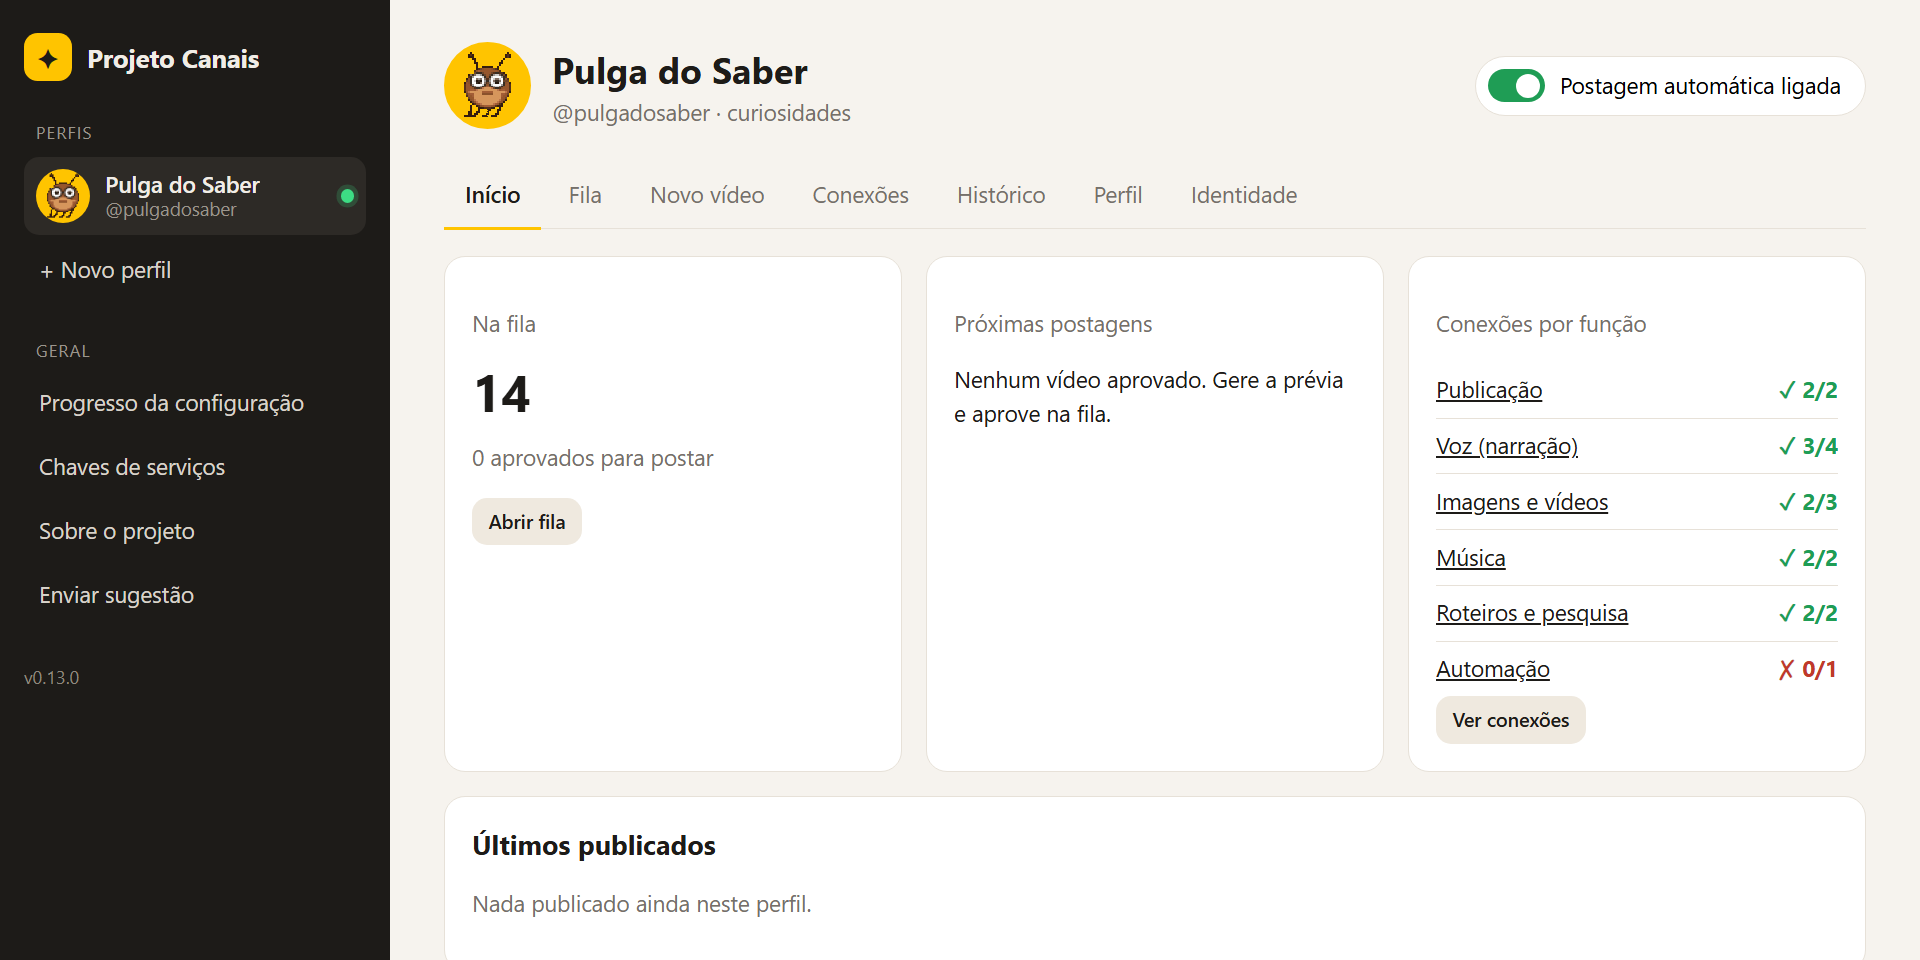
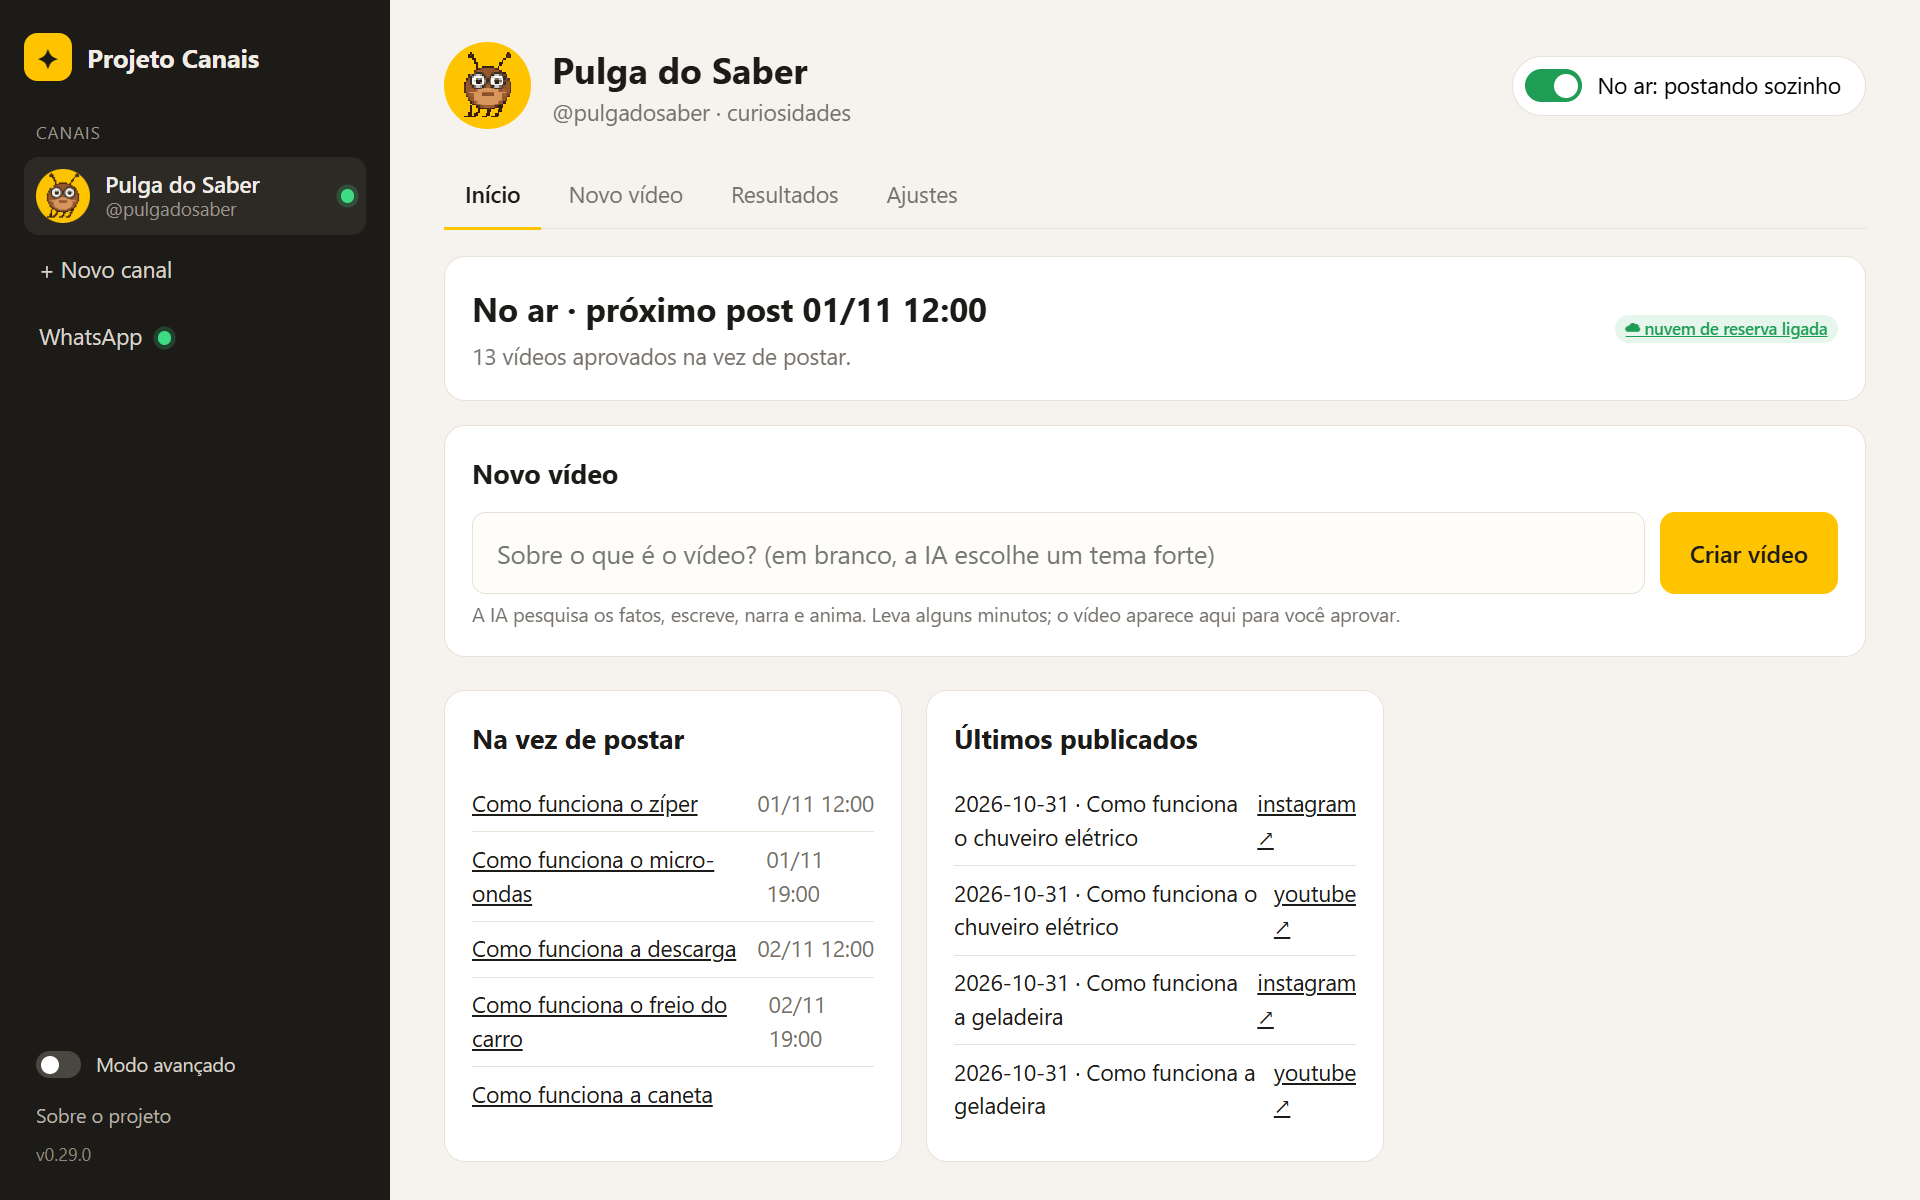
README com as novidades da v0.29 e comandos do WhatsApp sem travar em "conectando" (v0.29.1)
- README: seção Novidades com prints da abertura, do Novo canal, do O que funcionou (dados de exemplo) e do
  WhatsApp; print do Estúdio refeito; versão, apresentação e estrutura atualizadas.
- WhatsApp: o log do cloudflared é lido numa linha à parte com prazo; antes de registrar o webhook, o túnel é
  testado pela internet (o DNS do endereço novo demora e a Meta respondia "Failed to resolve host"); qualquer
  falha aparece na tela em vez de deixar "conectando" para sempre.

diff --git a/darkops/whatsapp.py b/darkops/whatsapp.py
@@ -668,27 +668,49 @@ def _ligar() -> None:
                             stdout=subprocess.DEVNULL, stderr=subprocess.PIPE, text=True, errors="replace",
                             creationflags=getattr(subprocess, "CREATE_NO_WINDOW", 0))
     _gravar_estado(tunel_pid=proc.pid)
-    endereco = None
-    inicio = time.time()
-    for linha in proc.stderr:
-        achado = re.search(r"https://[a-z0-9-]+\.trycloudflare\.com", linha)
-        if achado:
-            endereco = achado.group(0)
+    # o log do túnel é lido numa linha à parte: se o cloudflared ficar mudo, o prazo de 60 s ainda vale
+    achados: list[str] = []
+
+    def ler_log():
+        for linha in proc.stderr:
+            achado = re.search(r"https://[a-z0-9-]+\.trycloudflare\.com", linha)
+            if achado and not achados:
+                achados.append(achado.group(0))
+    threading.Thread(target=ler_log, daemon=True).start()
+    for _ in range(120):
+        if achados or proc.poll() is not None:
             break
-        if time.time() - inicio > 60:
-            break
-    if not endereco:
-        _gravar_estado(tunel_erro="o túnel da Cloudflare não respondeu; tente de novo em Ajustes")
+        time.sleep(0.5)
+    if not achados:
+        proc.kill()
+        _gravar_estado(tunel_erro="o túnel da Cloudflare não respondeu; clique em Religar os comandos")
         return
-    threading.Thread(target=lambda: [None for _ in proc.stderr], daemon=True).start()  # esvazia o log do túnel
-    time.sleep(4)  # o endereço novo leva uns segundos para valer na internet
+    endereco = achados[0]
     try:
+        _esperar_tunel(endereco)  # o endereço novo leva de segundos a 1 min para valer na internet
         registrar_webhook(endereco + CAMINHO_WEBHOOK)
         _gravar_estado(tunel=endereco, tunel_ok=True, tunel_erro="")
         print("WhatsApp: comandos ligados")
-    except (ErroMeta, OSError) as erro:
+    except Exception as erro:  # qualquer falha aparece na tela, em vez de deixar "conectando" para sempre
         _gravar_estado(tunel_erro=ocultar(str(erro))[:300])
         print(ocultar(f"WhatsApp: não consegui registrar o webhook: {erro}"))
+
+
+def _esperar_tunel(endereco: str, prazo_s: int = 90) -> None:
+    """Espera o túnel responder de fora (a mesma verificação que a Meta faz) antes de registrar o webhook."""
+    teste = endereco + CAMINHO_WEBHOOK + "?" + urllib.parse.urlencode(
+        {"hub.mode": "subscribe", "hub.verify_token": verificador(), "hub.challenge": "pronto"})
+    fim = time.time() + prazo_s
+    while time.time() < fim:
+        try:
+            with urllib.request.urlopen(teste, timeout=10) as r:
+                if r.read() == b"pronto":
+                    time.sleep(5)  # folga para o DNS do endereço novo chegar também aos servidores da Meta
+                    return
+        except OSError:
+            pass
+        time.sleep(3)
+    raise OSError("o endereço do túnel não ficou acessível pela internet em 90 s")
 
 
 def _token_app() -> str:

diff --git a/darkops/__init__.py b/darkops/__init__.py
@@ -1,2 +1,2 @@
 """Projeto Canais: pesquisa, produção e postagem de canais dark. Autor: Vinicius Freitas."""
-__version__ = "0.29.0"
+__version__ = "0.29.1"

diff --git a/README.md b/README.md
@@ -1,22 +1,31 @@
 # Projeto Canais (canais-dark)
 
-[![Versão](https://img.shields.io/badge/vers%C3%A3o-0.26.1%20beta-f5c518)](darkops/__init__.py)
+[![Versão](https://img.shields.io/badge/vers%C3%A3o-0.29.1%20beta-f5c518)](darkops/__init__.py)
 [![Licença](https://img.shields.io/badge/licen%C3%A7a-PolyForm%20Noncommercial-blue)](LICENSE)
 [![Site](https://img.shields.io/badge/site-projeto--canais-222)](https://vincfreitas.github.io/projeto-canais/)
 [![YouTube](https://img.shields.io/badge/YouTube-@PulgadoSaber-red?logo=youtube)](https://www.youtube.com/@pulgadosaber)
 [![Instagram](https://img.shields.io/badge/Instagram-@pulgadosaber-E4405F?logo=instagram&logoColor=white)](https://www.instagram.com/pulgadosaber)
 
-> **Projeto Canais v0.26.1 (beta)** · criado por Vinicius Freitas · licença não comercial ([LICENSE](LICENSE))
+> **Projeto Canais v0.29.1 (beta)** · criado por Vinicius Freitas · licença não comercial ([LICENSE](LICENSE))
 
 Fábrica de canais "dark" (sem rosto) que **roda sozinha**: pesquisa temas que já dão certo, escreve roteiros com fatos checados, gera Shorts e Reels com narração, legendas, clipes reais, animações sincronizadas com a fala, efeitos sonoros e música livre, e **posta no YouTube e no Instagram nos horários marcados**, só o que você aprovou.
 
 **Veja funcionando:** o canal de exemplo é o **Pulga do Saber**, curiosidades rápidas narradas por uma pulga em pixel art, no [YouTube](https://www.youtube.com/@pulgadosaber) e no [Instagram](https://www.instagram.com/pulgadosaber).
 
-Tudo se controla pelo **Estúdio**, um painel no navegador com perfis (um por canal), conexões explicadas por função, fila com prévia e aprovação, editor e histórico.
+Tudo se controla pelo **Estúdio**, um painel no navegador com perfis (um por canal), conexões explicadas por função, fila com prévia e aprovação, editor e histórico. Ele **aprende sozinho**: a cada 15 vídeos no ar, descobre o que funcionou e ajusta os próximos. E avisa (e obedece) pelo **WhatsApp**. Posta mesmo com o PC desligado, pela **nuvem** (GitHub Actions + n8n).
 
 ![Estúdio do Projeto Canais: início do perfil Pulga do Saber, com fila, próximas postagens e conexões por função](docs/img/estudio.png)
 
-**Neste README:** [Começar em 3 passos](#começar-em-3-passos-com-o-claude-code) · [Sem o Claude](#sem-o-claude-manual) · [Como funciona](#como-funciona) · [Conectores](#conectores) · [Estrutura](#estrutura) · [Regras](#regras-que-mantêm-o-canal-vivo) · [Testando?](#testando-sua-opinião-ajuda) · [Licença](#licença-e-autoria)
+**Neste README:** [Novidades](#novidades-v029) · [Começar em 3 passos](#começar-em-3-passos-com-o-claude-code) · [Sem o Claude](#sem-o-claude-manual) · [Como funciona](#como-funciona) · [Conectores](#conectores) · [Estrutura](#estrutura) · [Regras](#regras-que-mantêm-o-canal-vivo) · [Testando?](#testando-sua-opinião-ajuda) · [Licença](#licença-e-autoria)
+
+## Novidades (v0.29)
+
+| | |
+|---|---|
+| <img src="docs/img/abertura.png" width="420" alt="Abertura animada do Projeto Canais: o logo, o nome e a conferência do Estúdio, do n8n, da nuvem e do WhatsApp"> | **Abertura animada.** O executável abre direto numa tela que confere o Estúdio, o n8n, a nuvem e o WhatsApp, e o logo "voa" para a lateral. Sem janelas de prompt piscando. |
+| <img src="docs/img/novo-canal.png" width="420" alt="Novo canal em 5 passos: assunto em cartões, nome com sugestões da IA, formato, plataformas e revisão, com prévia ao vivo do canal"> | **Novo canal em 5 passos.** Assunto em cartões, nome com sugestões da IA, formato e duração, plataformas e revisão, com uma prévia do canal mudando ao vivo. Ao criar, o canal já começa a produzir os **15 primeiros vídeos**. |
+| <img src="docs/img/o-que-funcionou.png" width="420" alt="Tela O que funcionou: os vídeos que funcionaram e os que não funcionaram, com nota, e as mudanças aplicadas sozinhas com o botão Desfazer (dados de exemplo)"> | **O que funcionou** (Resultados). A cada 15 vídeos no ar há 2 dias, o canal ranqueia os vídeos (visualizações, retenção e engajamento), separa o que funcionou do que não funcionou e **muda sozinho os próximos vídeos usando só o que funcionou**, com **Desfazer**. *Print com dados de exemplo.* |
+| <img src="docs/img/whatsapp.png" width="420" alt="Tela do WhatsApp: conectado uma vez para todos os canais, com o estado da conversa e os canais que recebem avisos"> | **WhatsApp** (API oficial da Meta). Uma vez para todos os canais: avisa quando um vídeo vai ao ar, quando algo falha e quando a fila está acabando, manda cada vídeo novo com **Aprovar/Recusar** e obedece comandos como `status`, `criar 3` e `pausar todos`. |
 
 ## Começar em 3 passos (com o Claude Code)
 
@@ -55,7 +64,7 @@ O passo a passo completo de cada conta está em [.claude/skills/configurar/SKILL
 | Dar personalidade ao canal | Estúdio > Perfil > **Personalidade do canal**: quem narra, tom, público, como os vídeos começam, linguagem e padrão de título e capa; o /escrever-roteiro e as levas seguem isso |
 | Revisar antes de gerar | A tela do vídeo sem prévia mostra a **Revisão antes de gerar**: canal, visual, voz, cenas, duração, fontes, tempo para gerar e as notas do roteiro sobre o que ele escolheu |
 | Escrever o roteiro com fontes, ganchos e animações | `/escrever-roteiro <ideia>`, banco de ganchos em [docs/ganchos.md](docs/ganchos.md) |
-| Abrir sem PowerShell | Atalho **Projeto Canais** na Área de Trabalho e/ou no Menu Iniciar (escolhido na instalação ou em Estúdio > **Configurações**); `python -m darkops abrir` faz o mesmo. Ao abrir, o Estúdio também liga o n8n escondido (leva de 1 a 3 min), e ele segue ligado para postar às 12h e às 19h |
+| Abrir sem PowerShell | Atalho **Projeto Canais** na Área de Trabalho e/ou no Menu Iniciar (escolhido na instalação ou em Estúdio > **Configurações**); `python -m darkops abrir` faz o mesmo. Ao abrir, o Estúdio também liga o n8n escondido (leva de 1 a 3 min), e ele segue ligado para postar às 12h e às 19h. Abre numa **abertura animada** que confere o que já está de pé, sem janelas de prompt piscando |
 | Manter o projeto atualizado | Estúdio > Configurações: atualização automática (busca no GitHub, espera as tarefas, fecha e abre sozinho e mostra a versão nova e o que mudou), **Procurar atualização** e **Atualizar dependências** (pacotes Python e yt-dlp, n8n, Claude Code). Pela CLI: `python -m darkops atualizar` e `python -m darkops atualizar-dependencias --aplicar` |
 | Ver os números | Estúdio > **Estatísticas**: inscritos ou seguidores, visualizações, curtidas, comentários, compartilhamentos, salvamentos, minutos assistidos, duração média e retenção de cada vídeo, no YouTube e no Instagram (APIs oficiais, só leitura; `python -m darkops estatisticas`). Retenção e minutos do YouTube pedem a permissão extra "Liberar retenção" |
 | Melhorar com base nos números | **Analisar com a IA**: o Claude lê as estatísticas e sugere mudanças com o motivo; cada uma tem Aprovar ou Recusar. Mudança de configuração só é aplicada se aprovada; orientação de conteúdo aprovada vira diretriz do canal, seguida pelos roteiros |
@@ -92,7 +101,8 @@ O passo a passo completo de cada conta está em [.claude/skills/configurar/SKILL
 - `darkops/`: o código (CLI `python -m darkops`, com `--perfil <id>` em qualquer comando)
 - `darkops/estudio/`: o painel (Flask, só em 127.0.0.1)
 - `perfis/<id>/`: um canal por perfil (configuração, fila, publicados, controle; credenciais ficam fora do Git). Ao criar o perfil no Estúdio, escolha as plataformas (YouTube, Instagram, Facebook, TikTok, Kwai ou outra), o formato (Shorts/Reels vertical ou vídeo convencional 16:9), a duração de cada vídeo e um link de vídeo de exemplo. Só YouTube e Instagram postam sozinhos.
-- `n8n/`: modelo do workflow e lançadores
+- `darkops/aprendizado.py`: o ciclo "o que funcionou" a cada 15 vídeos; `darkops/whatsapp.py`: avisos e comandos; `darkops/nuvem.py`: postagem com o PC desligado
+- `n8n/`: modelos dos workflows (postagem; WhatsApp, resumo e análise) e lançadores
 - `site/`: página inicial, privacidade e termos exigidos pelo Google e pela Meta (GitHub Pages)
 - `docs/img/`: imagens do README
 - `docs/`: formato do roteiro e banco de ganchos
